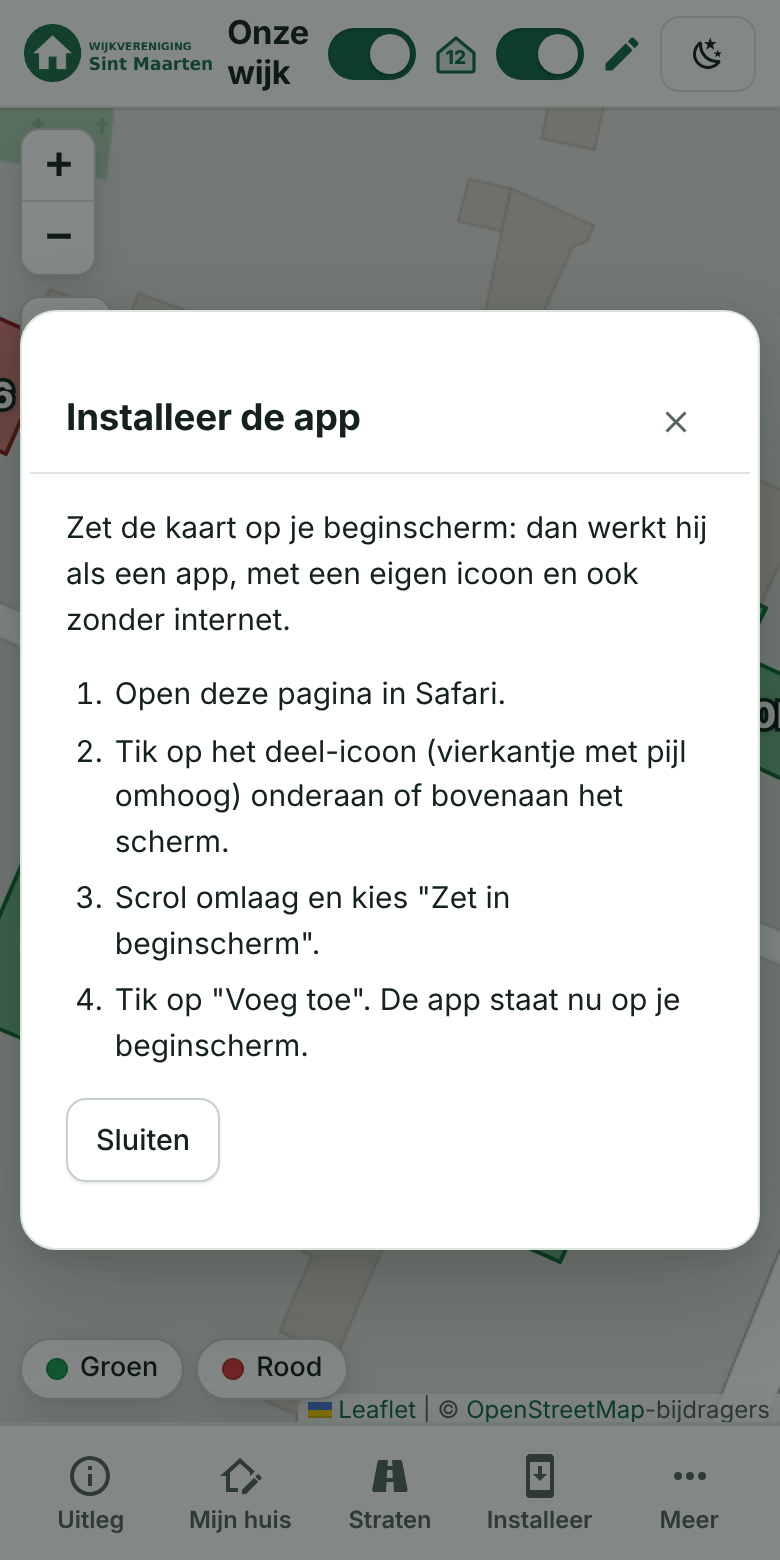
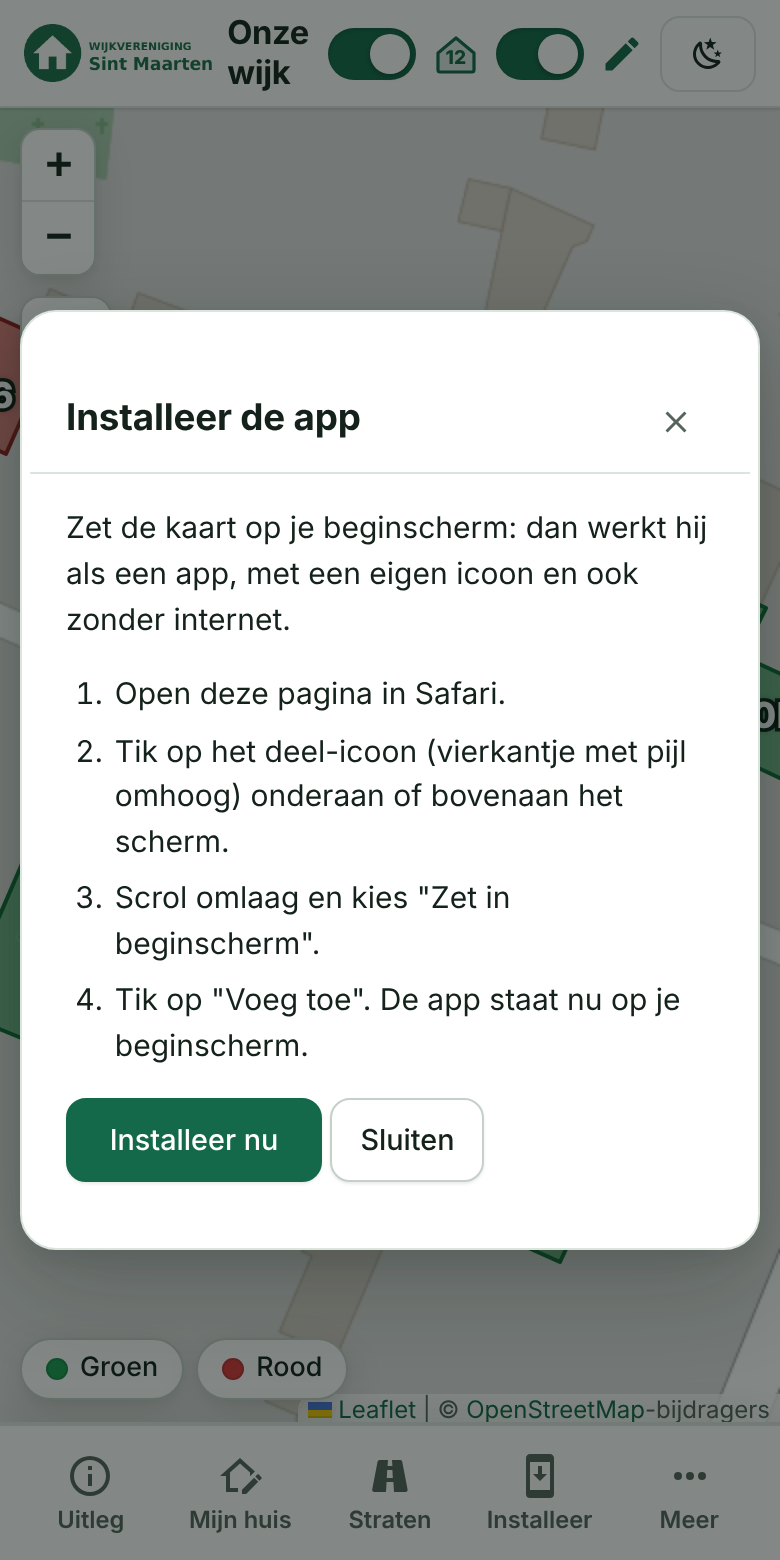
Installeren op iOS: deelvenster direct bij de tik, en fouten zichtbaar
De knop Installeer opende op iOS eerst alleen het stappenvenster; het
deelvenster ging pas open met "Installeer nu". Nu opent navigator.share()
meteen in de tik op de knop in de menubalk (iOS staat dat alleen direct na
een tik toe), met het stappenvenster erachter.

Een geweigerd deelvenster werd geruisloos ingeslikt, waardoor niemand zag
waarom er niets gebeurde. Nu staat de naam van de fout in het venster
(bijv. NotAllowedError), boven de stappen die er altijd blijven. Zelf
sluiten van het deelvenster (AbortError) is geen fout.

README (nl en en), de iOS-screenshot en tools/screenshots.js bijgewerkt.

Claude-Session: https://claude.ai/code/session_01KSdu53R4dH46tib61mqt2t

Changed region(s): [[0.0615, 0.6769, 0.4308, 0.7692], [0.4615, 0.7077, 0.5846, 0.7385]]

diff --git a/public/js/pwa.js b/public/js/pwa.js
@@ -48,8 +48,25 @@
     if (btn) btn.hidden = installed || standalone() || !(platform || offered);
   }
 
+  // iOS kent geen installatieprompt: installeren gaat via het deelvenster ("Zet in beginscherm"). Dat mag alleen worden geopend
+  // vanuit een tik van de bezoeker, dus rechtstreeks in de klik-handler (niet na een await of een timeout).
+  const canShare = () => platform === 'ios' && typeof navigator.share === 'function';
+  // Lukt het deelvenster niet, dan staat de reden (naam van de fout) in het venster, boven de stappen die er dan altijd zijn.
+  async function share() {
+    const note = $('install-note');
+    if (note) note.hidden = true;
+    try {
+      await navigator.share({ title: document.title, url: location.origin + '/' });
+    } catch (e) {
+      if (e?.name === 'AbortError' || !note) return; // de bezoeker sloot het deelvenster zelf
+      note.textContent = I18n.t('Het deelvenster kon niet worden geopend ({naam}). Volg de stappen hierboven.', { naam: e?.name || 'onbekende fout' });
+      note.hidden = false;
+    }
+  }
+
   // Een klik op de knop: met de installatieprompt van de browser (Android, Windows, desktop) start het installeren meteen.
-  // Anders (iOS, of de prompt is al weggeklikt) opent een venster met de stappen voor het platform.
+  // Op iOS opent het deelvenster meteen, met daarachter een venster met de stappen. Anders (of als de prompt al is
+  // weggeklikt) opent alleen het venster met de stappen voor het platform.
   function install() {
     if (deferred) {
       const d = deferred;
@@ -57,11 +74,12 @@
       Promise.resolve(d.prompt()).catch(() => {});
       return;
     }
+    if (canShare()) share();
     const dlg = $('install-dialog');
     if (!dlg || dlg.open) return;
     $('install-text').textContent = INTRO[guide];
     $('install-steps').replaceChildren(...STEPS[guide].map((t) => Object.assign(document.createElement('li'), { textContent: t })));
-    $('install-go').hidden = !(platform === 'ios' && navigator.share); // alleen iOS: het deelvenster bevat "Zet in beginscherm"
+    $('install-go').hidden = !canShare(); // "Installeer nu" opent het deelvenster opnieuw, als je het hebt weggeklikt
     dlg.showModal();
   }
 
@@ -69,8 +87,7 @@
     const dlg = $('install-dialog');
     if (dlg) {
       $('install-x').onclick = $('install-later').onclick = () => dlg.close();
-      // De stappen blijven zichtbaar, ook als het deelvenster niet opent.
-      $('install-go').onclick = () => navigator.share({ title: document.title, url: location.origin + '/' }).catch(() => {});
+      $('install-go').onclick = share; // de stappen blijven zichtbaar, ook als het deelvenster niet opent
     }
     if ($('install-btn')) $('install-btn').onclick = install;
     sync();

diff --git a/public/js/lang-en.js b/public/js/lang-en.js
@@ -43,6 +43,7 @@
     "Installeer nu": "Install now",
     "Installeer app": "Install app",
     "Installeer": "Install",
+    "Het deelvenster kon niet worden geopend ({naam}). Volg de stappen hierboven.": "The share sheet could not be opened ({naam}). Follow the steps above.",
     "Zet de kaart op je beginscherm: dan werkt hij als een app, met een eigen icoon en ook zonder internet.": "Put the map on your home screen: it then works like an app, with its own icon and even without internet.",
     "Open deze pagina in Safari.": "Open this page in Safari.",
     "Tik op het deel-icoon (vierkantje met pijl omhoog) onderaan of bovenaan het scherm.": "Tap the share icon (square with an arrow pointing up) at the bottom or top of the screen.",

diff --git a/tools/screenshots.js b/tools/screenshots.js
@@ -484,6 +484,7 @@ async function main() {
   for (const [name, userAgent] of Object.entries(PLATFORMS)) {
     if (!wanted(`installatiemelding-${name}`)) continue;
     const ctx = await browser.newContext(ctxOpts({ ...MOBILE, userAgent }));
+    if (name === 'ios') await ctx.addInitScript(() => { navigator.share = () => Promise.resolve(); }); // Chromium heeft geen deelvenster; Safari op iOS wel
     const p = await ctx.newPage();
     await openPublic(p);
     await p.waitForSelector('#install-btn:not([hidden])', { timeout: 5000 });

diff --git a/public/index.html b/public/index.html
@@ -86,6 +86,7 @@
   </div>
   <p id="install-text"></p>
   <ol id="install-steps" class="install-steps"></ol>
+  <p id="install-note" class="error" role="alert" hidden></p>
   <p><button id="install-go" class="primary" hidden>Installeer nu</button> <button id="install-later" type="button">Sluiten</button></p>
 </dialog>
 

diff --git a/README.md b/README.md
@@ -273,7 +273,7 @@ Ook het beheer (`/beheer`) is te installeren als eigen app, met een eigen donker
 
 - **Knop *Installeer* in de menubalk**: zolang de app niet geïnstalleerd is, staat er in de menubalk een knop **Installeer** (een telefoon met een pijl). Er opent niets vanzelf. Is de app geïnstalleerd en open je hem als app, dan verdwijnt de knop. Hij staat op iPhone/iPad, Android en Windows (Chrome/Edge), en in elke andere browser die zelf installeren aanbiedt (bijvoorbeeld Chrome op macOS of Linux):
   - **Android (Chrome), Windows en andere desktopbrowsers**: de knop start meteen de installatie van de browser. Kan dat niet (bijvoorbeeld omdat je de vraag van de browser net hebt weggeklikt), dan opent een venster met de stappen: menu ⋮ → *App installeren*; op Windows het installeer-icoon in de adresbalk of menu → *App installeren* (Edge: *Apps* → *Deze site als app installeren*).
-  - **iPhone/iPad (Safari)**: de knop opent een venster met de stappen. *Installeer nu* daarin opent het deelvenster; kies *Zet in beginscherm* → *Voeg toe*.
+  - **iPhone/iPad (Safari)**: de knop opent meteen het deelvenster van iOS (kies daarin *Zet in beginscherm* → *Voeg toe*), met daarachter een venster met de stappen. *Installeer nu* opent het deelvenster opnieuw. Weigert iOS het deelvenster, dan staat de naam van de foutmelding in het venster en volg je de stappen.
   - Safari op macOS en Firefox kunnen niet via de pagina installeren; daar staat de knop niet.
   - Open je de website in de browser terwijl de app al geïnstalleerd is, dan staat de knop er toch (de browser meldt dat niet aan de pagina); open dan de app zelf.
 - **Offline**: de app bewaart zichzelf, de laatst bekende kaartgegevens, het logo en de kaarttegels van het wijkgebied (en de PDF-uitsnede).

diff --git a/README.en.md b/README.en.md
@@ -275,7 +275,7 @@ The admin area (`/beheer`) can also be installed as its own app, with its own da
 
 - **The *Install* button in the menu bar**: as long as the app is not installed, the menu bar has an **Install** button (a phone with an arrow). Nothing opens by itself. Once the app is installed and you open it as an app, the button disappears. It is there on iPhone/iPad, Android and Windows (Chrome/Edge), and in any other browser that offers installing itself (for example Chrome on macOS or Linux):
   - **Android (Chrome), Windows and other desktop browsers**: the button starts the browser's installation right away. If that is not possible (for example because you just dismissed the browser's question), a window with the steps opens: menu ⋮ → *Install app*; on Windows the install icon in the address bar or the menu → *Install app* (Edge: *Apps* → *Install this site as an app*).
-  - **iPhone/iPad (Safari)**: the button opens a window with the steps. *Install now* in that window opens the share sheet; choose *Add to Home Screen* → *Add*.
+  - **iPhone/iPad (Safari)**: the button opens the iOS share sheet right away (choose *Add to Home Screen* → *Add*), with a window with the steps behind it. *Install now* opens the share sheet again. If iOS refuses the share sheet, the name of the error is shown in the window and you follow the steps.
   - Safari on macOS and Firefox cannot install from the page; the button is not shown there.
   - If you open the website in the browser while the app is already installed, the button is still shown (the browser does not tell the page); open the app itself instead.
 - **Offline**: the app stores itself, the last known map data, the logo and the map tiles of the neighbourhood (and the PDF section).
